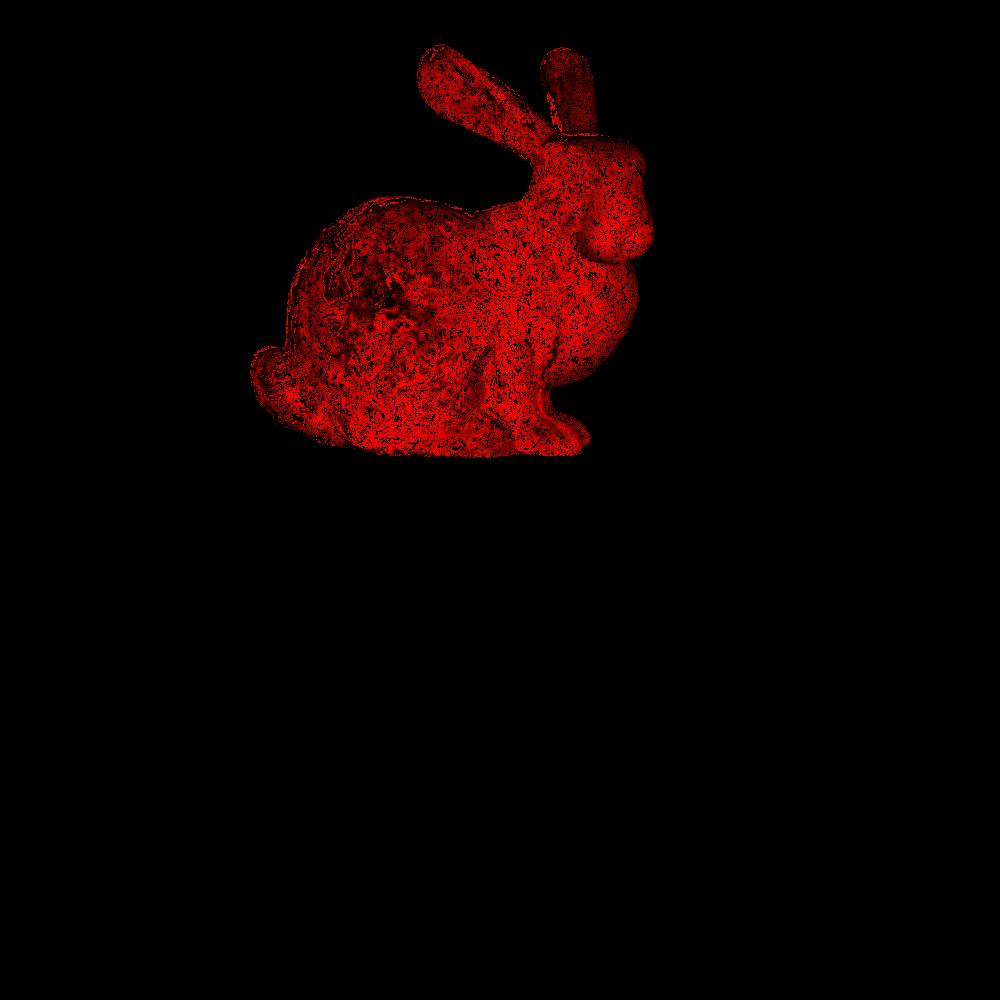
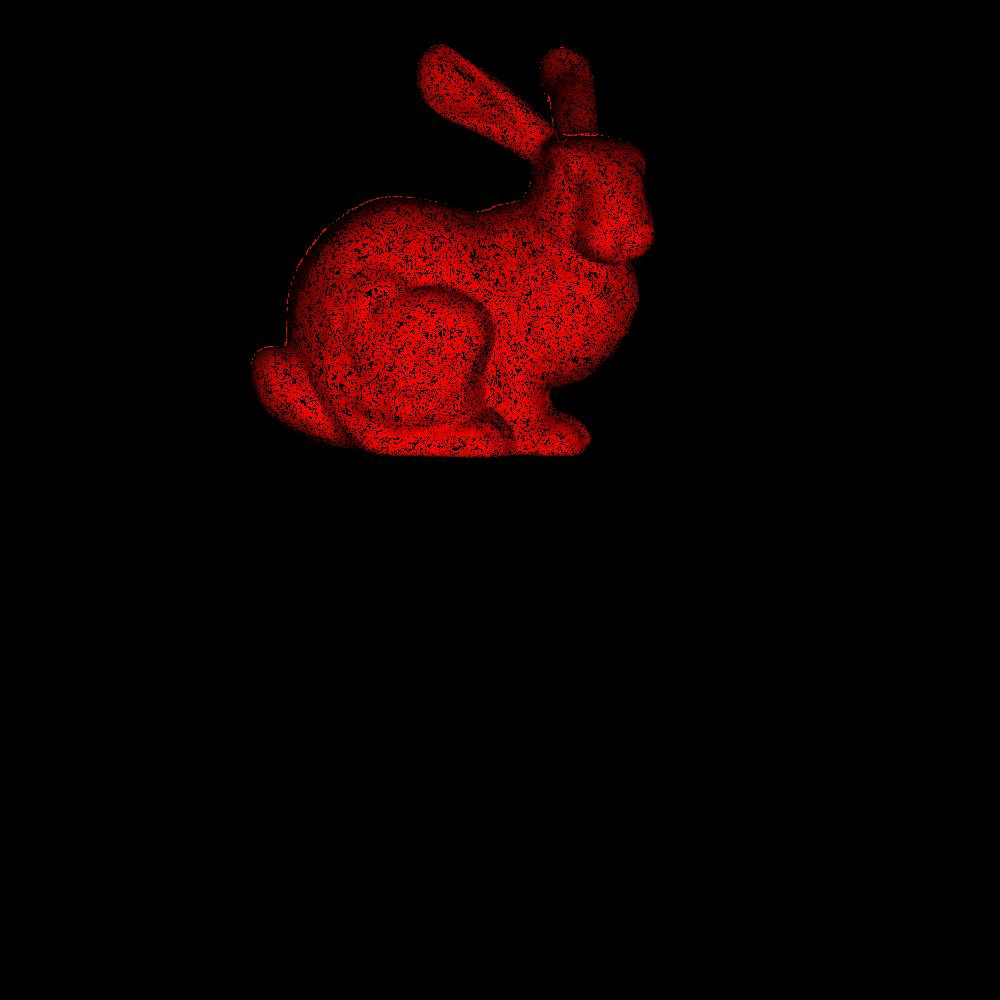
Fix lab 3-4

Changed region(s): [[0.248, 0.031, 0.651, 0.465]]

diff --git a/model.py b/model.py
@@ -106,6 +106,7 @@ class RenderPicture:
         self.vertex = read_obj(filename)[0]
         self.polygon = read_obj(filename)[1]
         self.normal = read_obj(filename)[2]
+        self.normal_to_polygon = read_obj(filename)[3]
 
     def draw_vertex(self, height, weight, k, b):
         picture = Picture(height, weight)
@@ -121,55 +122,19 @@ class RenderPicture:
                                self.vertex[p[i + 1]][0] * k + b, -self.vertex[p[i + 1]][1] * k + b, color=255)
         return picture
 
-    def draw_triangle(self, height, weight, color: bool = False, k=4000, b=500):
+    def draw_guro(self, height, weight, color: bool = False):
         picture = Picture(height, weight, color)
 
-        vect_l = [0, 0, 1]
+        for p, n in zip(self.polygon, self.normal_to_polygon):
+            new_vertexes = projective_transformation(self.get_vertexes(p))
+            l_norm = self.get_coefficients(n)
 
-        for p in self.polygon:
-
-            # проективное преобразование и поворот модели
-            matrix_r = rotation_matrix()
-            x0, y0, z0 = np.dot(matrix_r, projective_transformation(self.vertex[p[0]]))
-            x1, y1, z1 = np.dot(matrix_r, projective_transformation(self.vertex[p[1]]))
-            x2, y2, z2 = np.dot(matrix_r, projective_transformation(self.vertex[p[2]]))
-
-            normal = [(y1 - y0) * (z1 - z2) - (y1 - y2) * (z1 - z0),
-                      (z1 - z0) * (x1 - x2) - (x1 - x0) * (z1 - z2),
-                      (x1 - x0) * (y1 - y2) - (x1 - x2) * (y1 - y0)]
-
-            # без try возникает ошибка "list index out of range"
-            try:
-                n_0 = self.normal[p[0]]
-                n_1 = self.normal[p[1]]
-                n_2 = self.normal[p[2]]
-            except:
-                continue
-
-            l0 = normalized_dot(n_0, vect_l)
-            l1 = normalized_dot(n_1, vect_l)
-            l2 = normalized_dot(n_2, vect_l)
-
-            x_min, y_min, x_max, y_max = search_minmax(x0, x1, x2, y0, y1, y2)
-
-            norm_dot = normalized_dot(normal, vect_l)
-
-            if norm_dot < 0:
-                for x in range(int(x_min), int(x_max) + 1):
-                    for y in range(int(y_min), int(y_max) + 1):
-
-                        lambdas = get_barycentric_coordinates(x, y, x0, y0, x1, y1, x2, y2)
-                        summ = np.sum(lambdas)
-                        if summ == 1:
-                            if np.all(lambdas >= 0):
-
-                                # z-buffer
-                                new_z = lambdas[0] * z0 + lambdas[1] * z1 + lambdas[2] * z2
-
-                                if picture.h > x >= 0 and picture.w > y >= 0:
-                                    if new_z > picture.z_buffer[x][y]:
-                                        picture.z_buffer[x][y] = new_z
-                                        picture.set_pixel(x, y, [255 * (lambdas[0] * l0 + lambdas[1] * l1 + lambdas[2] *
-                                                                        l2), 0, 0])
-
+            draw_with_z_buffer(new_vertexes, picture, l_norm)
         return picture
+
+    def get_coefficients(self, indexes):
+        vec = [0, 0, 1]
+        return [normalized_dot(self.normal[idx], vec) for idx in indexes]
+
+    def get_vertexes(self, indexes):
+        return [self.vertex[idx] for idx in indexes]

diff --git a/functions.py b/functions.py
@@ -4,6 +4,7 @@ import numpy as np
 def read_obj(filename):
     vertex = []
     polygon = []
+    normal_to_polygon = []
     normal = []
     f = open(filename, 'r')
     lines = f.read()
@@ -16,10 +17,11 @@ def read_obj(filename):
             vertex.append([float(x), float(y), float(z)])
         if v == 'f':
             polygon.append([int(x.split("/")[0]) - 1, int(y.split("/")[0]) - 1, int(z.split("/")[0]) - 1])
+            normal_to_polygon.append([int(x.split("/")[2]) - 1, int(y.split("/")[2]) - 1, int(z.split("/")[2]) - 1])
         if v == 'vn':
             normal.append([float(x), float(y), float(z)])
     f.close()
-    return vertex, polygon, normal
+    return vertex, polygon, normal, normal_to_polygon
 
 
 def correct_points(x0: int, y0: int, x1: int, y1: int, steep=False):
@@ -62,21 +64,27 @@ def search_minmax(x0, x1, x2, y0, y1, y2):
     return x_min, y_min, x_max, y_max
 
 
-def projective_transformation(vertex):
+def projective_transformation(vertexes, rot=None):
+    if rot is None:
+        rot = [0, 0, 0]
+
+    matrix = rotation_matrix(rot[0], rot[1], rot[2])
+
     matrix_k = np.array([[-4000, 0, 500],
                          [0, -4000, 500],
                          [0, 0, 1]])
     t = np.array([0, 0, 0.9])
-    new_vertex = np.dot(matrix_k, vertex + t)
 
-    return new_vertex[0], new_vertex[1], new_vertex[2]
+    new_vertexes = []
+    for v in vertexes:
+        if rot:
+            new_vertexes.append(np.dot(matrix, np.dot(matrix_k, v + t)))
+        else:
+            new_vertexes.append(np.dot(matrix_k, v + t))
+    return new_vertexes
 
 
-def rotation_matrix():
-    alpha = 0 / 180 * np.pi
-    betta = 0 / 180 * np.pi
-    gamma = 0 / 180 * np.pi
-
+def rotation_matrix(alpha, betta, gamma):
     r_1 = np.array([[1, 0, 0],
                     [0, np.cos(alpha), np.sin(alpha)],
                     [0, -1 * np.sin(alpha), np.cos(alpha)]])
@@ -91,3 +99,31 @@ def rotation_matrix():
     matrix_r = np.dot(np.dot(r_1, r_2), r_3)
 
     return matrix_r
+
+
+def get_normal(x0, y0, z0, x1, y1, z1, x2, y2, z2):
+    return [(y1 - y0) * (z1 - z2) - (y1 - y2) * (z1 - z0),
+            (z1 - z0) * (x1 - x2) - (x1 - x0) * (z1 - z2),
+            (x1 - x0) * (y1 - y2) - (x1 - x2) * (y1 - y0)]
+
+
+def draw_with_z_buffer(vertex_list, picture, l_norm):
+    x0, y0, z0 = vertex_list[0]
+    x1, y1, z1 = vertex_list[1]
+    x2, y2, z2 = vertex_list[2]
+
+    x_min, y_min, x_max, y_max = search_minmax(x0, x1, x2, y0, y1, y2)
+
+    norm_dot = normalized_dot(get_normal(x0, y0, z0, x1, y1, z1, x2, y2, z2), [0, 0, 1])
+
+    if norm_dot < 0:
+
+        for x, y in [(x, y) for x in range(int(x_min), int(x_max) + 1) for y in range(int(y_min), int(y_max) + 1)]:
+            lambdas = get_barycentric_coordinates(x, y, x0, y0, x1, y1, x2, y2)
+
+            if np.sum(lambdas) == 1 and np.all(lambdas >= 0):
+                new_z = lambdas[0] * z0 + lambdas[1] * z1 + lambdas[2] * z2
+                if new_z > picture.z_buffer[x][y]:
+                    picture.z_buffer[x][y] = new_z
+                    picture.set_pixel(x, y, [255 * (lambdas[0] * l_norm[0] + lambdas[1] * l_norm[1] + lambdas[2] *
+                                                    l_norm[2]), 0, 0])

diff --git a/main.py b/main.py
@@ -1,5 +1,8 @@
 from model import Picture, RenderPicture
 
+file_name = 'model_1.obj'
+height, weight = 1000, 1000
+
 
 def task_1():
     # черное изображение
@@ -44,8 +47,6 @@ def task_2():
 
 
 def task_3_6():
-    file_name = 'model_1.obj'
-    height, weight = 1000, 1000
     k_values = [50, 100, 500, 4000]
     b = 500
 
@@ -57,52 +58,10 @@ def task_3_6():
     im.draw_polygon(height, weight).save('result/task 6.jpg')
 
 
-def task_9_11():
-    file_name = 'model_1.obj'
-    height, weight = 1000, 1000
-
+def task_18():
     im = RenderPicture(file_name)
-
-    # 10
-    im.draw_triangle(height, weight)
-    im.vertex_picture.save('result/task 10.jpg')
-
-    # 11
-    im.draw_triangle(height, weight, True)
-    im.vertex_picture.save('result/task 11.jpg')
-
-
-def task_12_14():
-    file_name = 'model_1.obj'
-    height, weight = 1000, 1000
-
-    im = RenderPicture(file_name)
-
-    im.draw_triangle(height, weight, True).save('result/task 14.jpg')
-
-
-def task_15():
-    file_name = 'model_1.obj'
-    height, weight = 1000, 1000
-
-    im = RenderPicture(file_name)
-
-    im.draw_triangle(height, weight, True).save('result/task 15.jpg')
-
-
-def task_16_18():
-    file_name = 'model_1.obj'
-    height, weight = 1000, 1000
-
-    im = RenderPicture(file_name)
-    im.draw_triangle(height, weight, True).save('result/task 18.jpg')
+    im.draw_guro(height, weight, True).save('result/task 18.jpg')
 
 
 if __name__ == '__main__':
-    # task_1()
-    # task_2()
-    # task_3_6()
-    # task_9_11()
-    # task_12_14()
-    # task_15()
-    task_16_18()
+    task_18()
